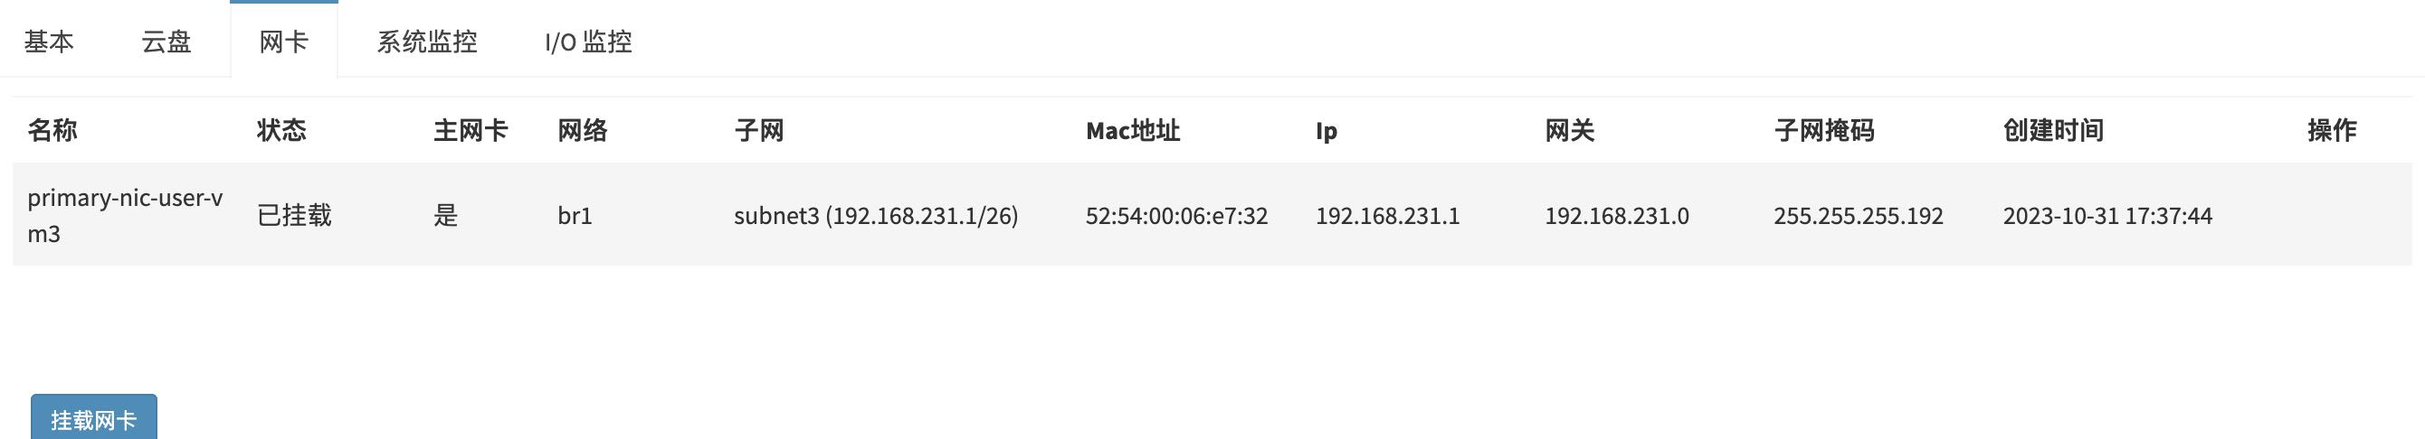
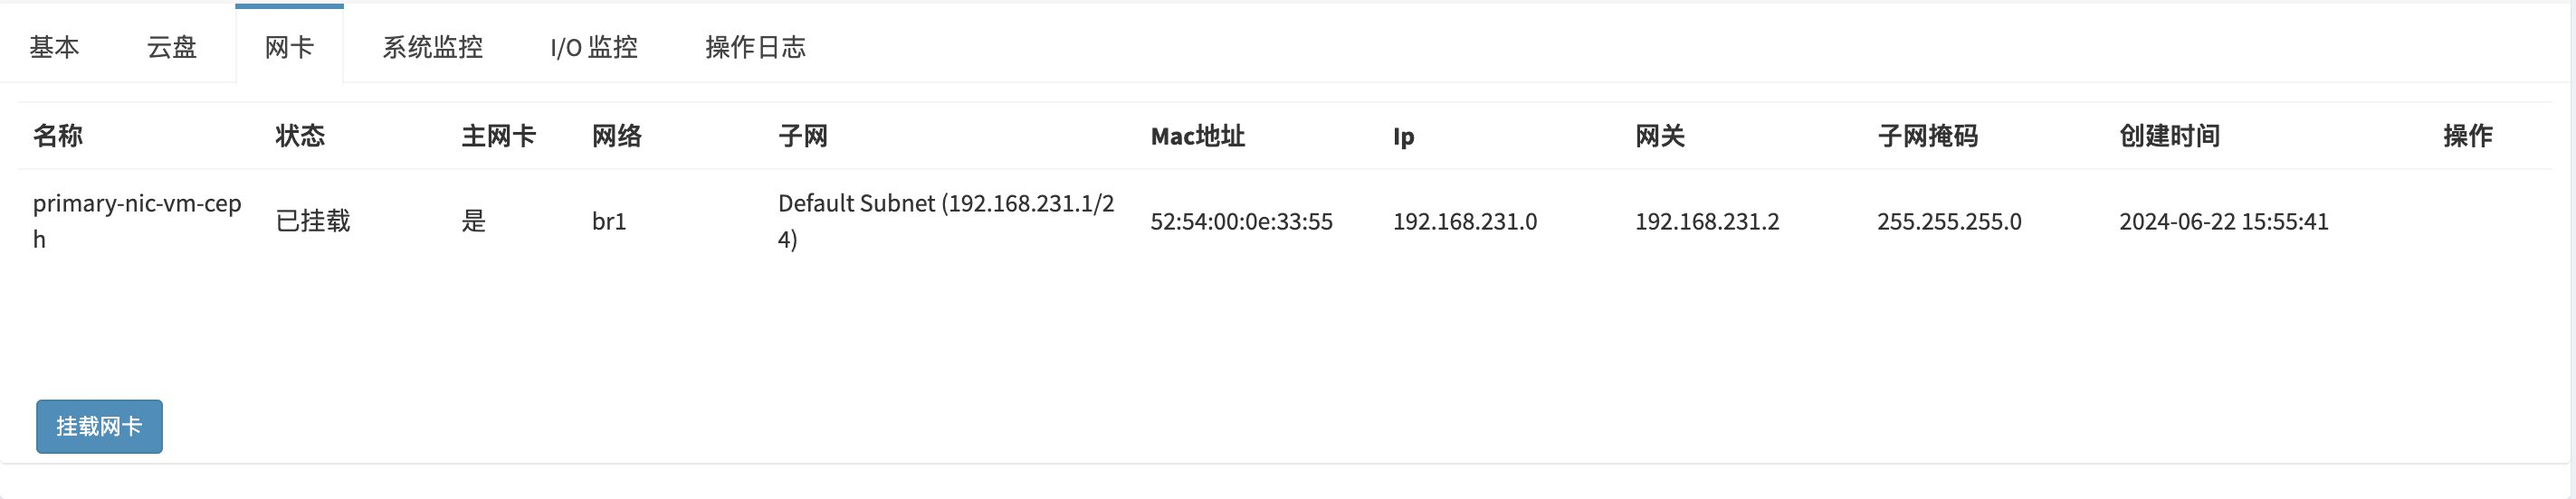
update

diff --git a/content/zh/docs/Usage/WebUI/Compute/vm/_index.md b/content/zh/docs/Usage/WebUI/Compute/vm/_index.md
@@ -11,11 +11,12 @@ weight: 2
   * 点击**筛选**按钮，输入过滤条件，查询过滤后的虚拟机列表
   * 点击**列过滤**按钮，过滤需要显示在列表也的信息，默认全部显示
 * 查看虚拟机详情：在列表中选中某个虚拟机，显示虚拟机详情信息
-  * 基本信息页：显示虚拟机的基础信息 
-  * 云盘信息页：显示虚拟机挂载的云盘信息列表
-  * 网卡信息页：显示虚拟机挂载的弹性网卡信息列表
-  * 系统监控页：显示虚拟机整体的CPU、内存使用率
-  * I/O监控页：显示虚拟机整体的磁盘I/O、网络I/O情况
+  * 基本信息页: 显示虚拟机的基础信息 
+  * 云盘信息页: 显示虚拟机挂载的云盘信息列表
+  * 网卡信息页: 显示虚拟机挂载的弹性网卡信息列表
+  * 系统监控页: 显示虚拟机整体的CPU、内存使用率
+  * I/O监控页: 显示虚拟机整体的磁盘I/O、网络I/O情况
+  * 操作日志页: 显示虚拟机的操作日志
 
 {{% imgproc vmlist Fit "1000x1000" %}}
 虚拟机列表页和虚拟机详情基础信息页
@@ -35,6 +36,10 @@ weight: 2
 
 {{% imgproc vmioperf Fit "1000x500" %}}
 虚拟机整体的磁盘I/O、网络I/O情况
+{{% /imgproc %}}
+
+{{% imgproc vmlogs Fit "1000x500" %}}
+虚拟机的操作日志
 {{% /imgproc %}}
 
 ## 虚拟机管理
@@ -79,6 +84,7 @@ weight: 2
 {{% alert title="警告" color="warning" %}}
 删除虚拟机后虚拟机不能再恢复，虚拟机关联的资源也会被释放
 {{% /alert %}}
+* **迁移**: 
 
 ### 批量操作
 

diff --git a/content/zh/docs/Usage/WebUI/IndexPage/admin/_index.md b/content/zh/docs/Usage/WebUI/IndexPage/admin/_index.md
@@ -1,6 +1,6 @@
 ---
-title: 管理员首页
-description: 管理员首页功能介绍
+title: 管理员仪表盘
+description: 管理员首页仪表盘功能介绍
 weight: 3
 ---
 

diff --git a/content/zh/docs/Usage/WebUI/IndexPage/user/_index.md b/content/zh/docs/Usage/WebUI/IndexPage/user/_index.md
@@ -1,6 +1,6 @@
 ---
-title: 用户首页
-description: 普通用户首页功能介绍
+title: 用户仪表盘
+description: 用户首页仪表盘功能介绍
 weight: 2
 ---
 

diff --git a/content/zh/docs/Usage/WebUI/IndexPage/_index.md b/content/zh/docs/Usage/WebUI/IndexPage/_index.md
@@ -1,5 +1,5 @@
 ---
-title: 3.2 首页
+title: 3.2 首页仪表盘
 weight: 4
 description: 本章节介绍首页仪表盘页面功能
 ---
